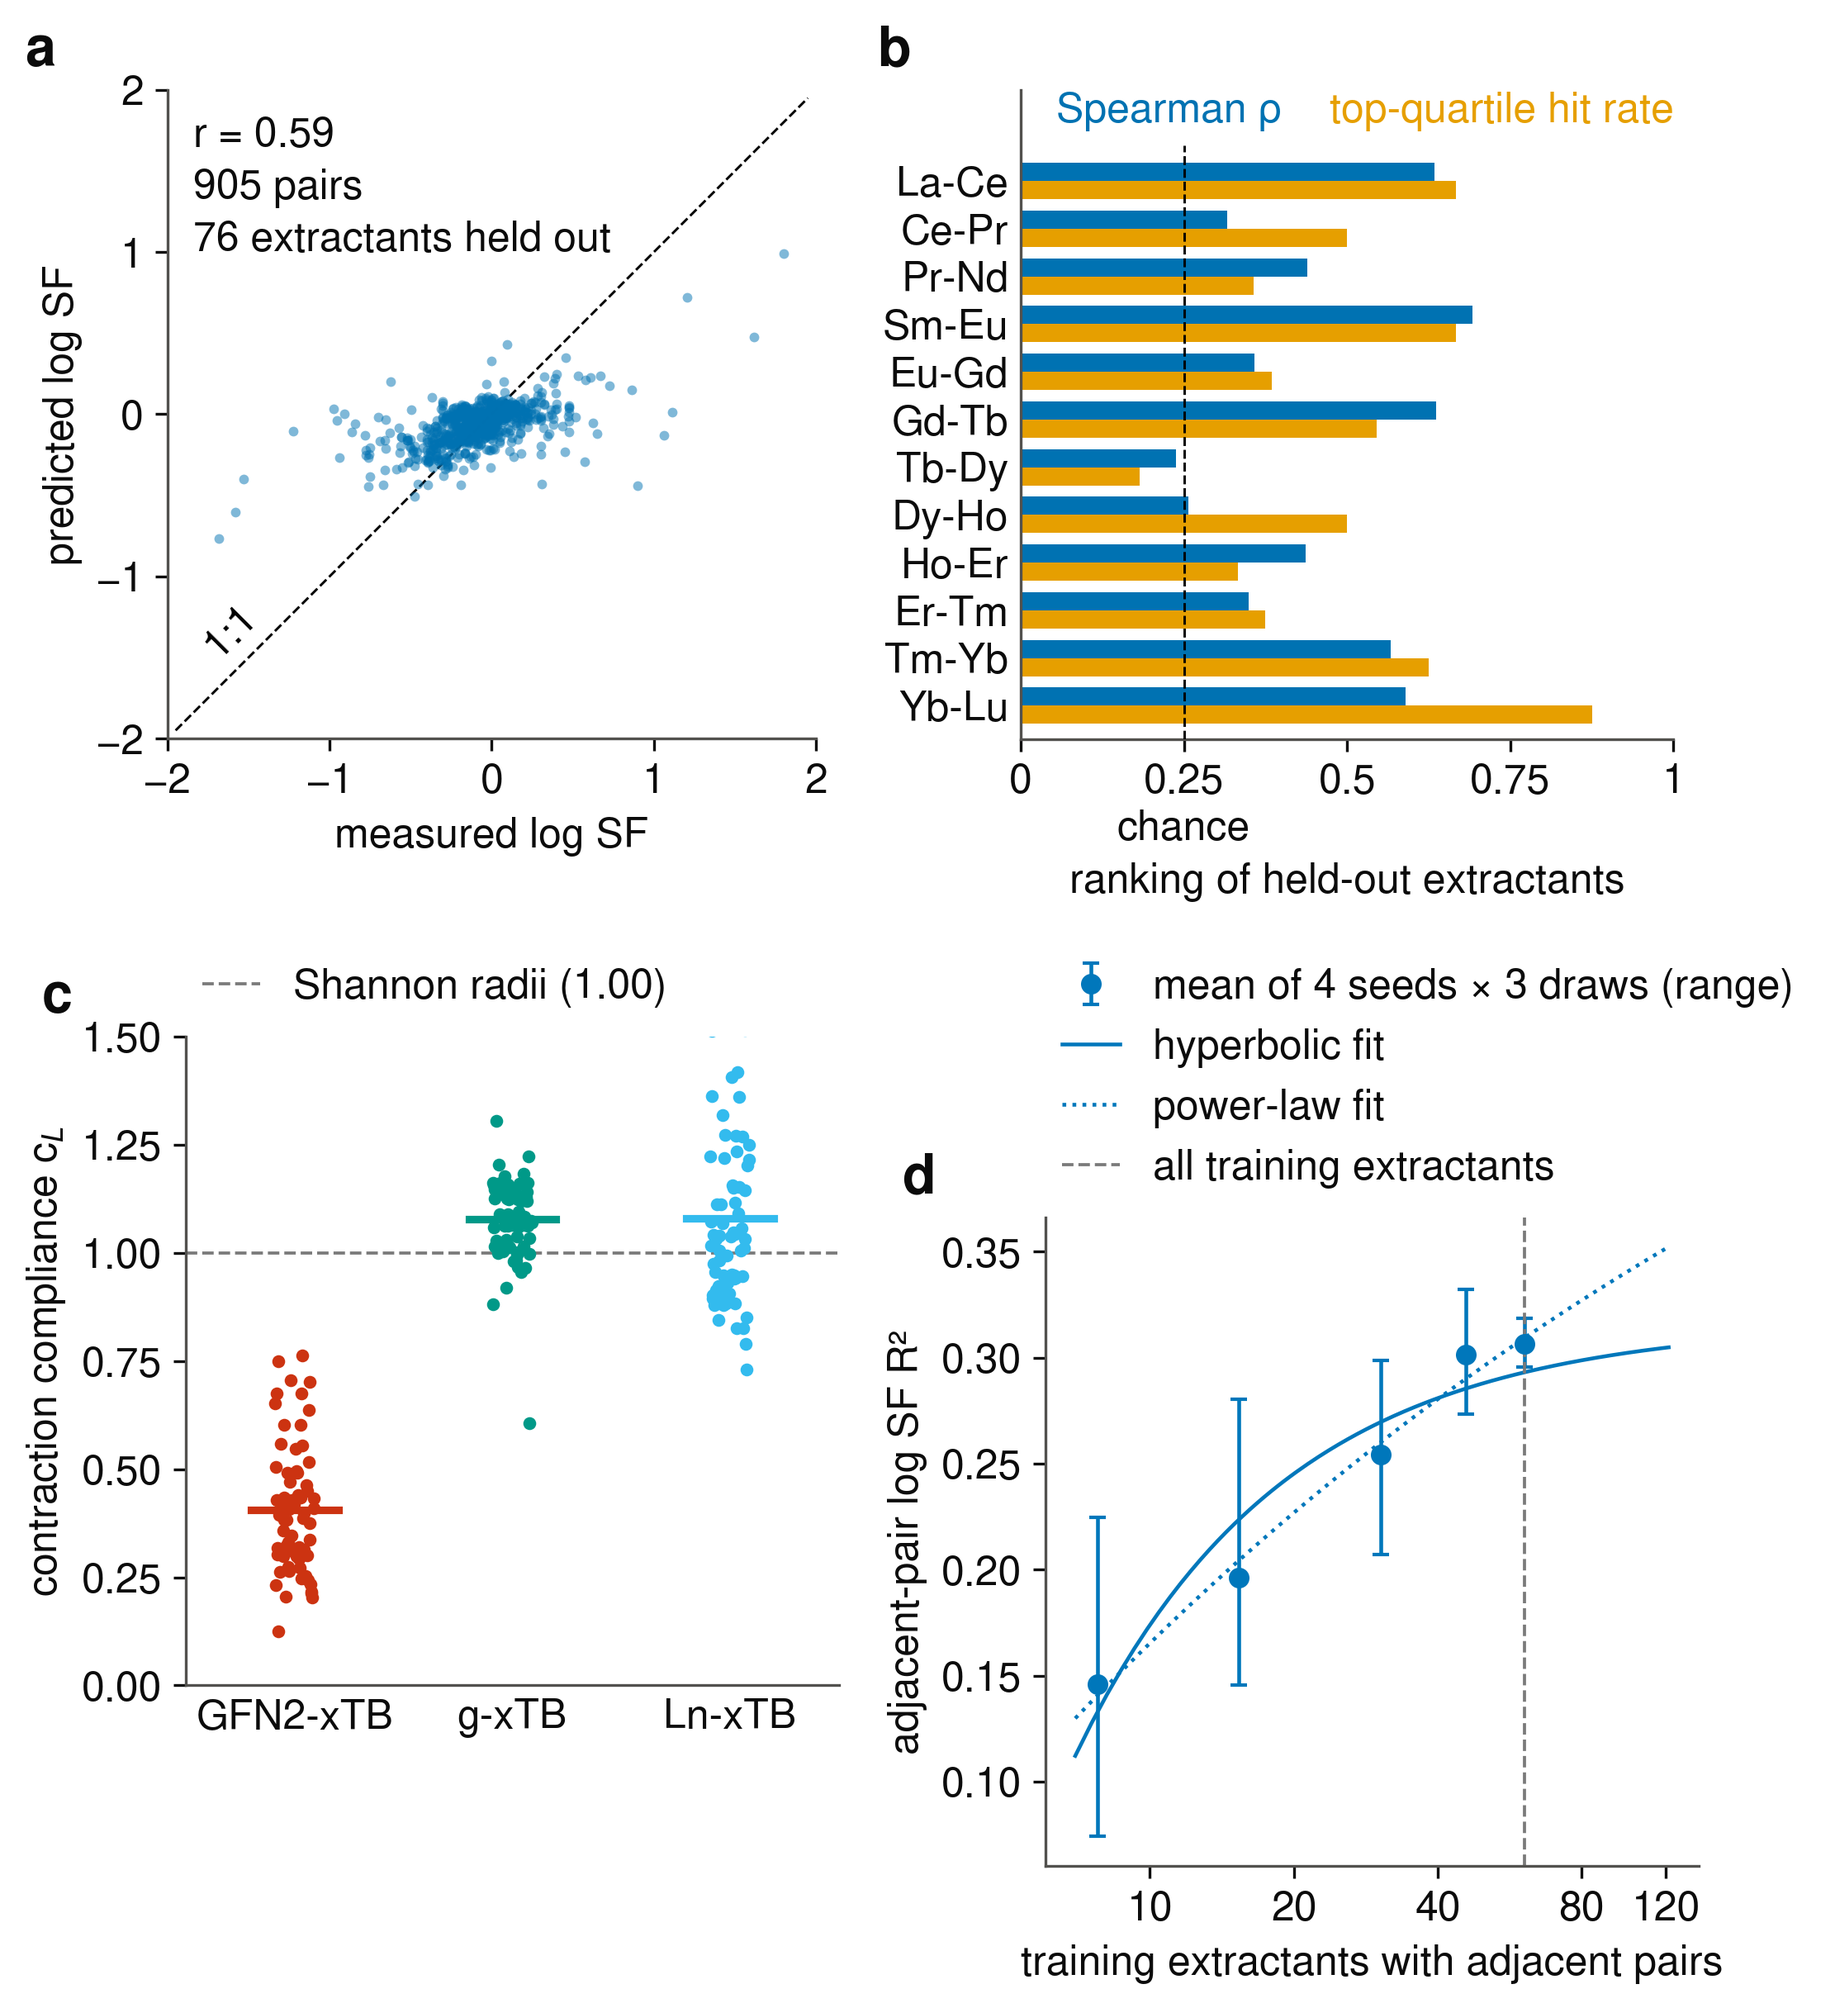
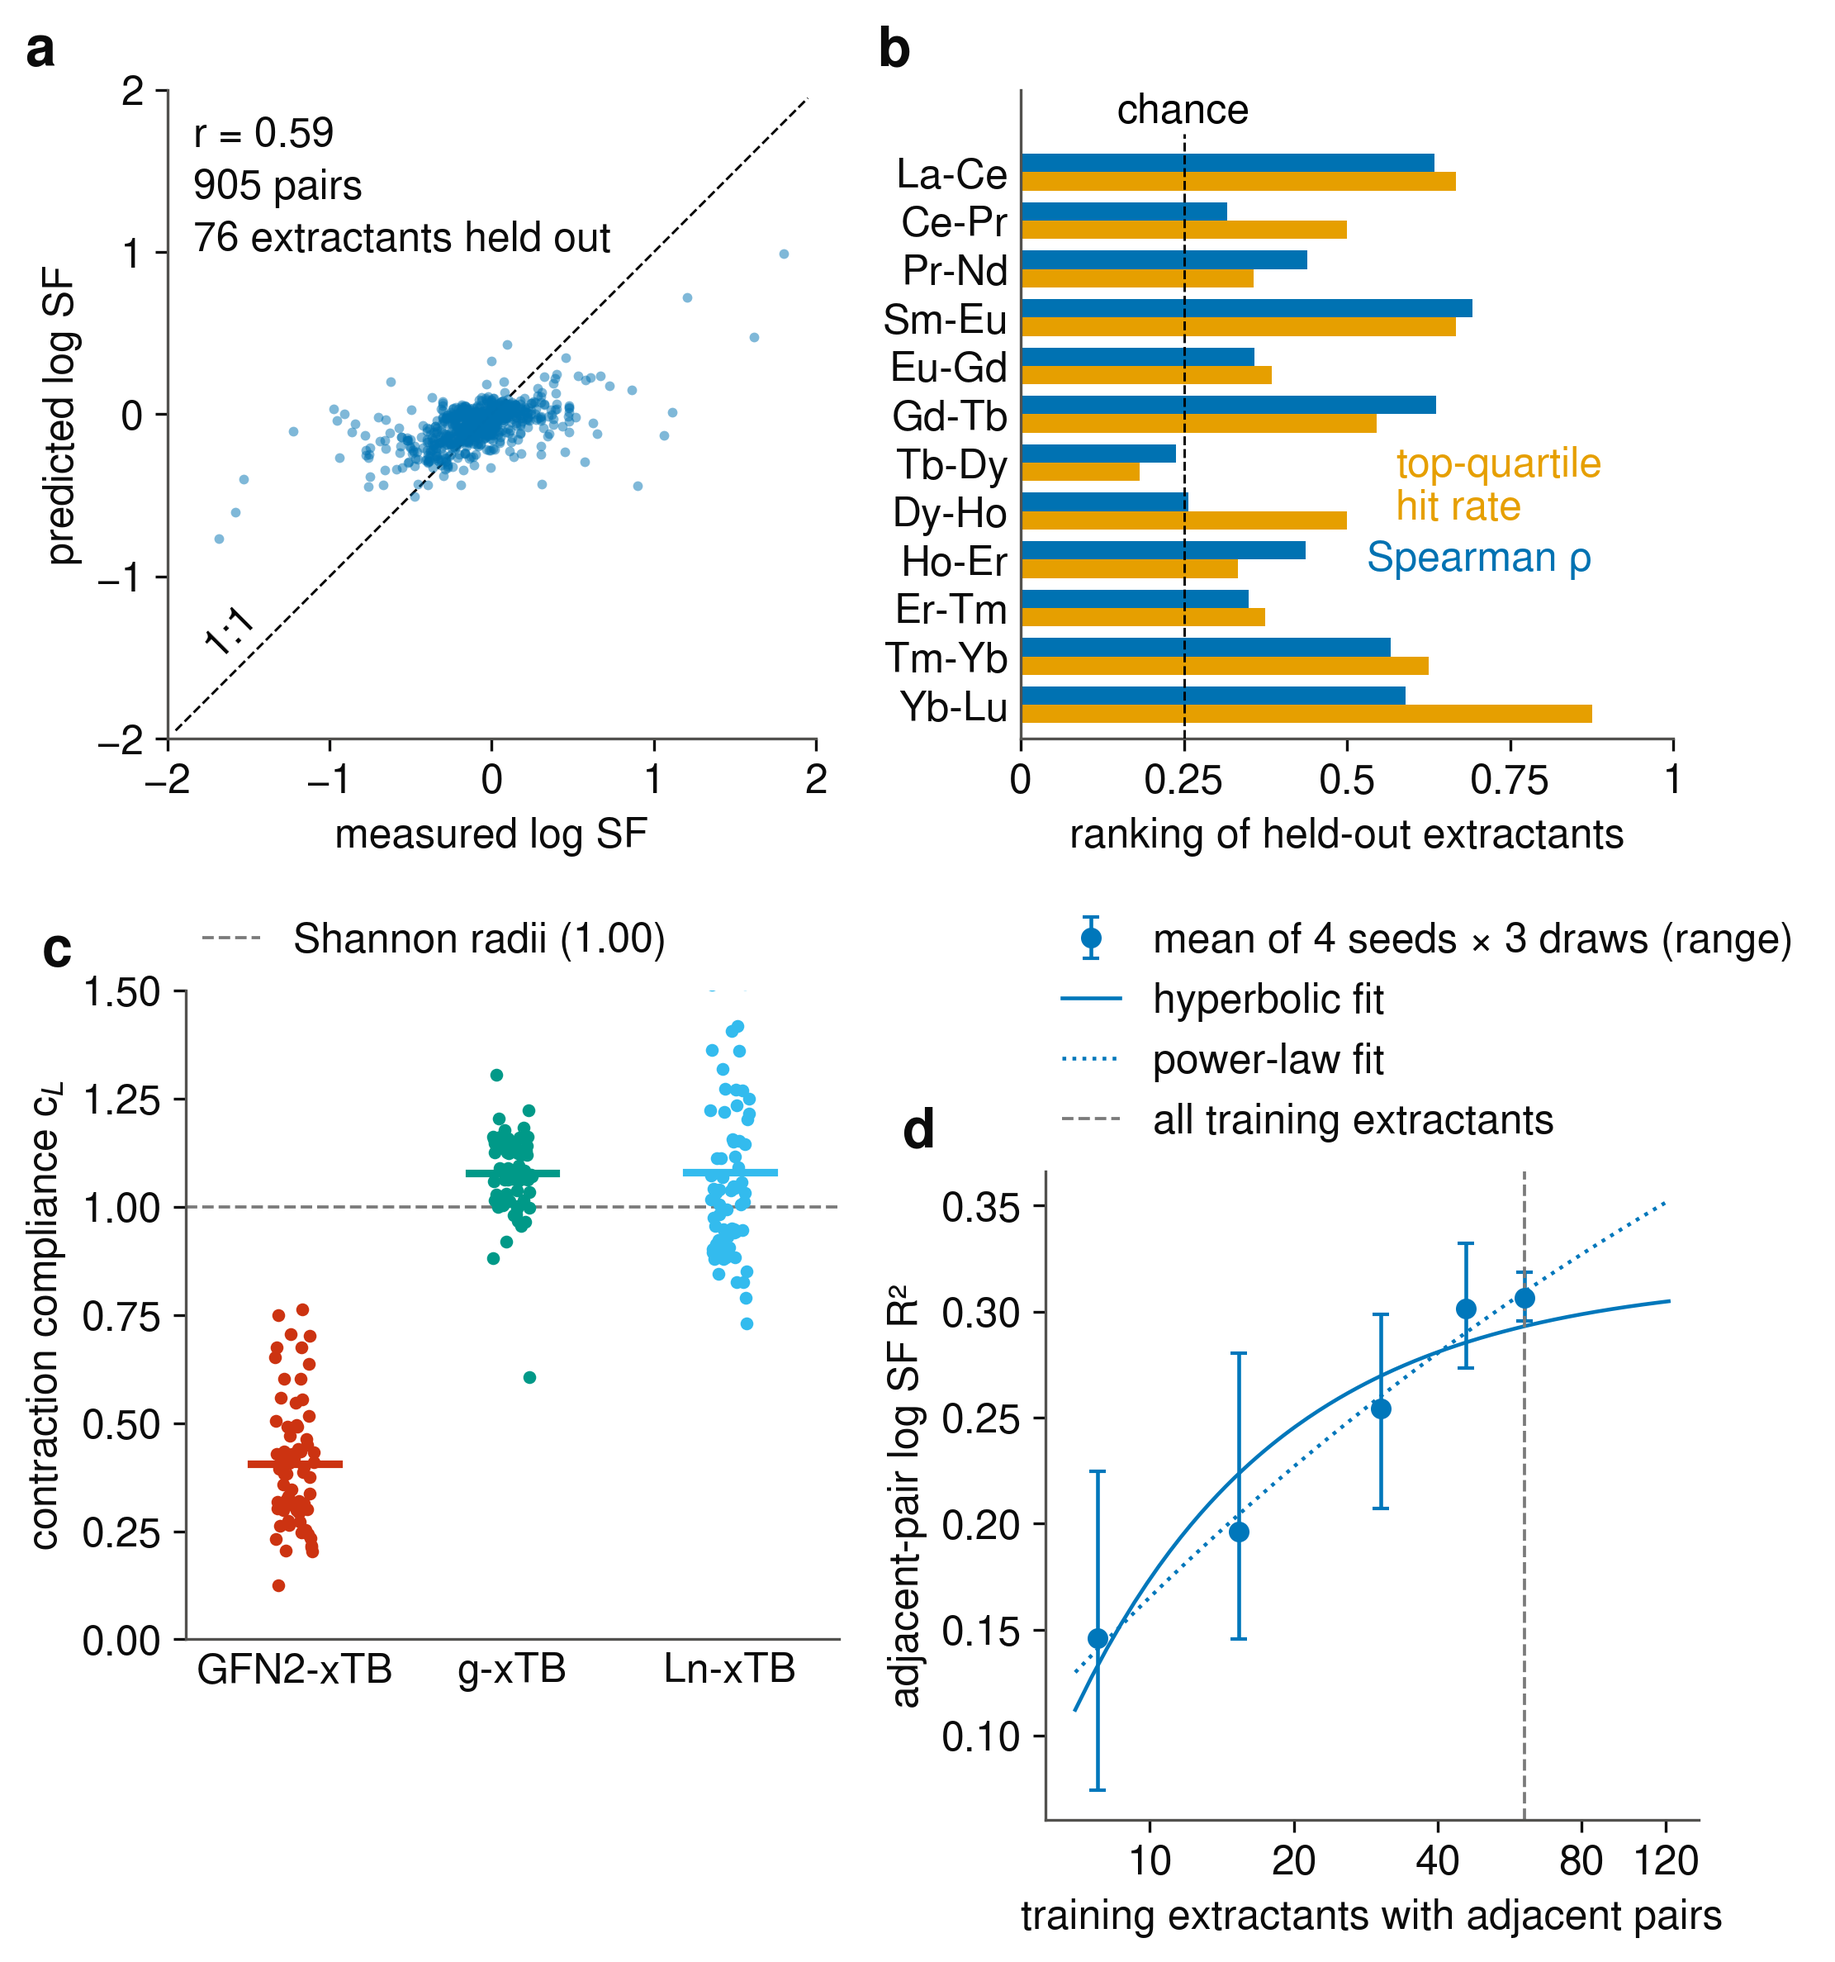
MoML figure, ranking panel: series names in the empty pocket beside the shortest rows with neighbour-aware placement, chance labelled at the top of its line

diff --git a/docs/moml_2026/make_figures.py b/docs/moml_2026/make_figures.py
@@ -74,18 +74,31 @@ def fig1b(ch=None):
     y = np.arange(len(pos)); h = 0.38
     ax.barh(y + h / 2, rho, height=h, color=fs.COLOR["model"])
     ax.barh(y - h / 2, hit, height=h, color=fs.COLOR["hit"])
-    ax.vlines(chance, -0.7, len(pos) - 1 + 0.75, ls="--", lw=0.7, color=fs.OI["black"], zorder=3)
+    ax.vlines(chance, -0.7, len(pos) - 1 + 0.8, ls="--", lw=0.7, color=fs.OI["black"], zorder=3)
     # names written beside the shortest row's bars, where the axes are empty
     top = len(pos) - 1
-    # series names as coloured text in the empty band above the bars (one line,
-    # right-aligned); the chance level is named in its tick label
+    # series names in the empty pocket to the right of the shortest rows.  A
+    # 12 pt line is about one row tall, so a name centred on row k must clear
+    # the bars of row k, the orange bar of the row above (k+1) and the blue bar
+    # of the row below (k-1).  The orange name is two lines and takes two rows.
     top = len(pos) - 1
-    ax.text(1.0, top + 1.05, "top-quartile hit rate", ha="right", va="bottom", color=fs.COLOR["hit"])
-    ax.text(0.40, top + 1.05, "Spearman ρ", ha="right", va="bottom", color=fs.COLOR["model"])
+    def clear_x(rows):
+        lo, hi = min(rows), max(rows)
+        xs = [max(rho[k], hit[k]) for k in rows]
+        if hi + 1 <= top: xs.append(hit[hi + 1])
+        if lo - 1 >= 0: xs.append(rho[lo - 1])
+        return max(xs) + 0.03
+    kb = min(range(len(pos)), key=lambda k: clear_x([k]))
+    pairs = [(k, k - 1) for k in range(1, len(pos)) if kb not in (k, k - 1)]
+    ko = min(pairs, key=lambda pr: clear_x(list(pr)))
+    ax.text(clear_x([kb]), kb, "Spearman ρ", va="center", ha="left", color=fs.COLOR["model"])
+    ax.text(clear_x(list(ko)), np.mean(ko), "top-quartile\nhit rate", va="center", ha="left",
+            color=fs.COLOR["hit"], linespacing=1.1)
+    ax.text(chance, top + 0.85, "chance", ha="center", va="bottom", color=fs.OI["black"])
     ax.set_yticks(y); ax.set_yticklabels(pos)
-    ax.set_ylim(-0.7, top + 1.9)
-    ax.set_xlim(0, 1.0); ax.set_xticks([0, chance, 0.5, 0.75, 1.0])
-    ax.set_xticklabels(["0", f"{chance:.2f}\nchance", "0.5", "0.75", "1"])
+    ax.set_ylim(-0.7, top + 1.7)
+    ax.set_xlim(0, 1.0); ax.set_xticks([0, 0.25, 0.5, 0.75, 1.0])
+    ax.set_xticklabels(["0", "0.25", "0.5", "0.75", "1"])
     ax.set_xlabel("ranking of held-out extractants")
     ax.tick_params(axis="y", length=0)
     letter(ax, ch)
